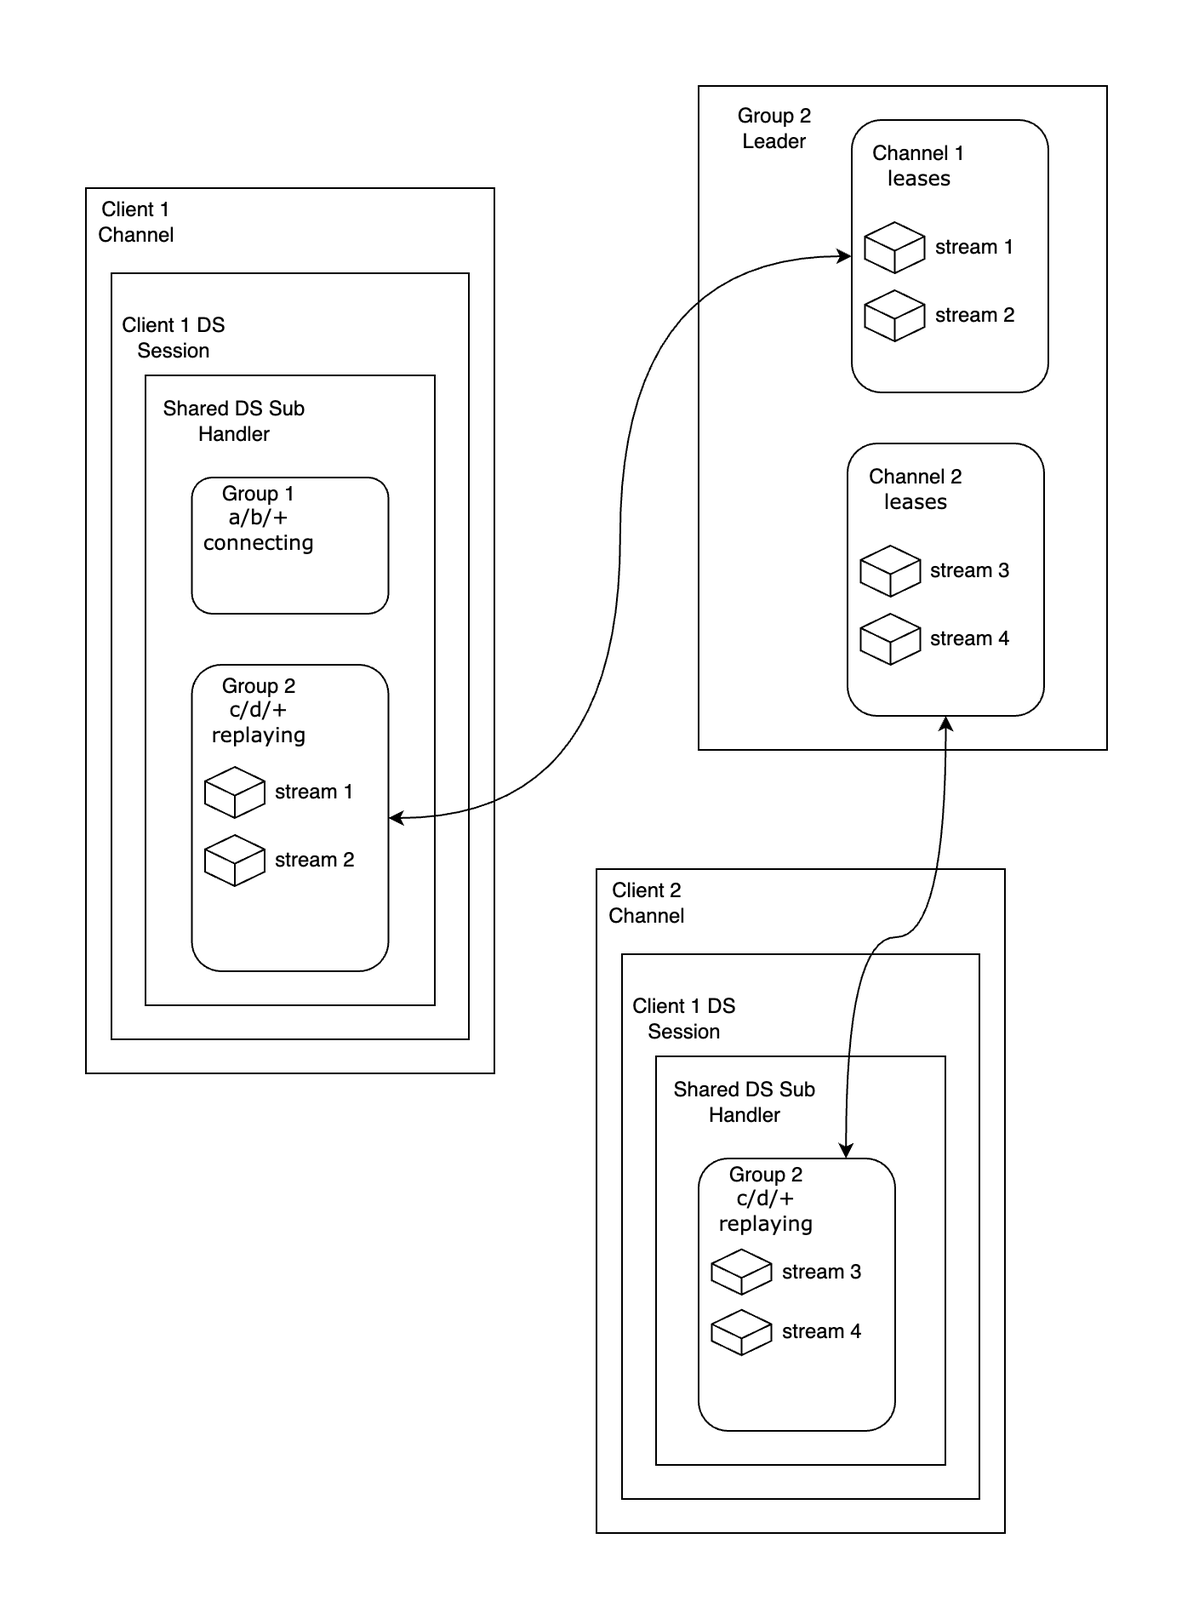
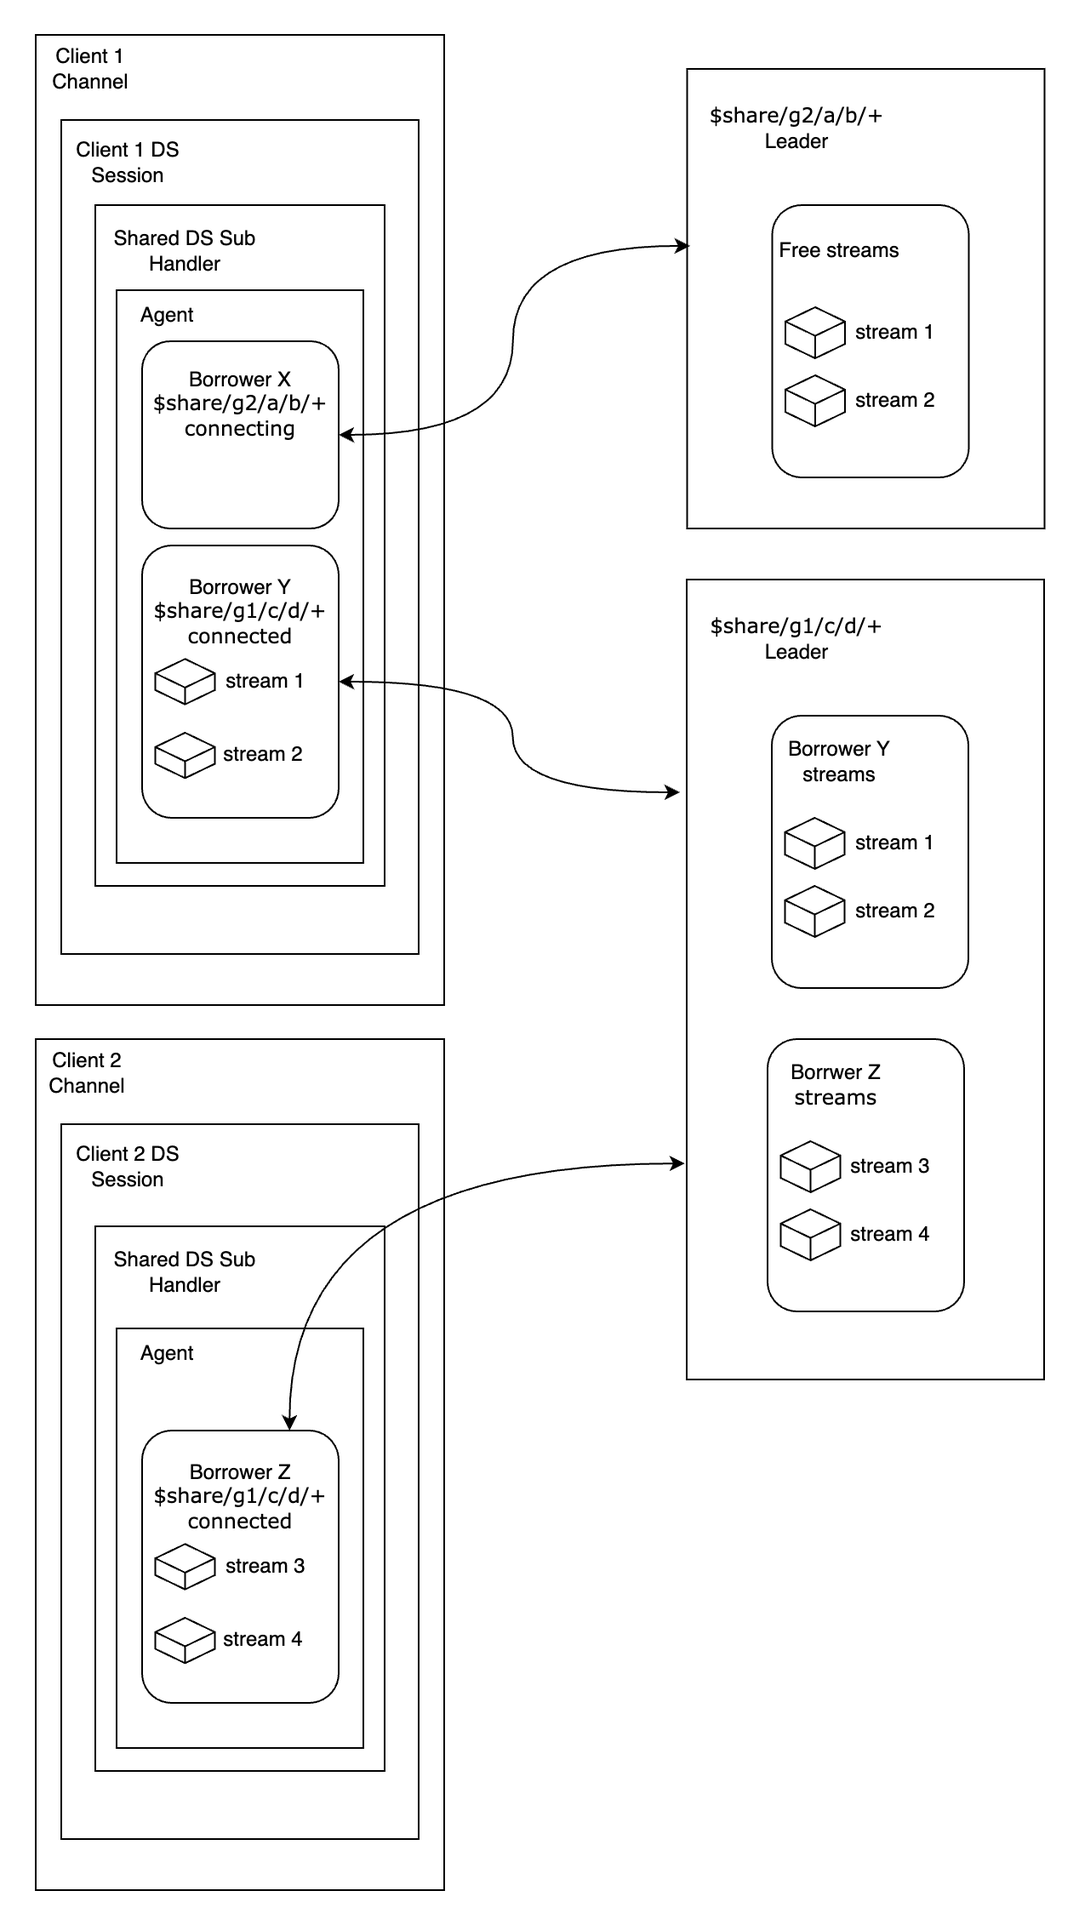
docs(0028): extend shared subscription design description

diff --git a/active/0028-durable-shared-subscriptions.md b/active/0028-durable-shared-subscriptions.md
@@ -3,6 +3,15 @@
 ## Changelog
 
 * 2024-05-10: @savonarola Initial draft
+* 2024-06-28: @savonarola
+    * Add the Agent abstraction
+    * Describe the two-side communication sequence between an Agent and the SGL
+    * Describe the stream reassignment algorithm
+* 2025-01-08: @savonarola
+    * Change the naming to contain less abbreviations and more comprehensive names
+    * Extend the introductory section a bit to make the general problem clear
+    * Add a section with the general layer structure
+    * Updated the interaction details according to the new simpler design
 
 ## Abstract
 
@@ -18,119 +27,209 @@ Since we have durable storage-based implementation for the regular subscriptions
 
 ### General Idea
 
-Each group is managed by a unique shared group leader process (SGL) that is cluster-wide. It has a persistent state but does not always run. It spawns when any group consumer connects and exits for some time after the last consumer disappears.
+Shared subscriptions (or queues) are a feature that allows multiple consumers to consume messages from some topic filter cooperatively.
 
-An SGL is spawned by a shared group leader manager (SGLM) process. SGLM runs per node and is responsible for spawning SGLs, locating them in the cluster, and guaranteeing that there is only one SGL per group.
+Several consumers subscribe to a special topic `$shared/GROUP_ID/TOPIC_FILTER` (or `$queue/GROUP_ID/TOPIC_FILTER` in the case of queues) and consume messages from `TOPIC_FILTER`. Each message goes to a single consumer.
 
-The global registration mechanism has not yet been chosen. It may be `ra`-based, `global`-based, or even DS-specific (like registering in FoundationDB).
+With the durable backend (Durable Storage backend, DS), all messages pertain to the ordered _streams_ of messages. Streams may be read sequentially (possibly skipping some messages). Streams may be finalized (i.e., closed) and so fully consumed.
 
-SGL keeps track of topics belonging to the group, their streams, and stream states. It is the only entity that tracks the replay progress of these streams.
+Since the streams are a means of sharding messages, the natural idea is to use the same sharding mechanism for shared subscriptions. That is, assign disjointed subsets of streams to different consumers and let them consume their streams in parallel.
 
-The groups' consumers are persistent sessions. They connect to the SGL, and the SGL leases them streams to consume. Sessions consume these streams together with their proper streams but do not persist the progress. Instead, they report the progress to the SGL.
+We need an entity responsible for distributing such streams across consumers.
+We implement such entity as a cluster-unique process called **Shared Group Leader** or simply **Leader**.
 
-SGL is responsible for reassigning streams to the other group consumers in case a consumer disconnects and for reassigning streams to the new consumers.
+The Leader is spawned when the first consumer connects to the group subscription.
 
-![General Design](./0028-assets/general-design.png)
+The global registration mechanism is based on the DS precondition feature, which allows the creation/deletion of message entries in the DS atomically.
 
-All communication between the consumers(sessions) and the SGL, SGLM, is done asynchronously because leaders may need to be spawned (this requires election) or may be running on a remote node.
+Leaders' data is also stored in the DS. Note that the DS for the Leader registration and other data is completely separate from the DS for the messages.
 
-### Session Side
+The Leader keeps track of topics belonging to the group, their streams, and stream progress. It is the only entity that tracks the replay progress of these streams.
 
-The Shared Subscription-related data structures are kept as the session's private data. Still, they are encapsulated and isolated from the rest of the session data structures with a **Shared Subscription Session Handler** (SSubHandler) facade module (`emqx_persistent_session_ds_shared_sub`). So, the Shared Subscription data is opaque to the rest of the session code.
+The consumers are persistent sessions. They connect to the Leader via the encapsulated **Agent** entity, and the Leader grants them streams to consume. Sessions consume these streams together with their proper streams but do not persist the progress. Instead, they report the progress to the Leader.
 
-The SSubHandler is passive, i.e., it does not contain any running processes. It only reacts to invocations from the session side.
+The Leader is responsible for reassigning streams to the other sessions in case a consumer session disconnects and for reassigning streams to the new consumers.
 
-A session is responsible for:
-* Initializing the SSubHandler data on session bootstrap.
-* Delivering Shared Sub-related messages (from timers, from other entities) to the SSubHandler.
-* Forwarding subscribe/unsubscribe `$shares/group/...` requests to the SSubHandler.
-* Querying stream states (`stream_state()`) from SSubHandler for replay and reporting replay results to the SSubHandler.
+### Layer design
 
-### Shared Subscription Session Handler
+The high-level layers are:
+* Session *Shared Subscription Handler*
+* Shared Subscription *Agent*
+* Shared Subscription *Borrower*
+* Shared Subscription *Leader*
 
-SSubHandler data is a collection of Group Subscription FSMs (GSFSM) identified by the group ID.
+#### Session Shared Subscription Handler
 
-```erlang
-#{
-    group_id() := #{
-        state := state(),
-        ...
-    }
-}
-```
+Session Shared Subscription Handler (or simply Shared Subscription Handler) is the session-side facade for the shared subscriptions.
+It is a counterpart of the module responsible for the regular (private) session subscriptions.
 
-Each GSFSM contains the following states:
-* `connecting` - the initial state, the GSFSM is looking for a Group Subscription Leader (SGL).
-* `replaying` - the GSFSM is connected to the SGL and provides stream states for replay.
-* `updating` - the GSFSM is connected to the SGL and is updating the set of streams.
+Session Shared Subscription
+* Handles the `on_subscribe`/`on_unsubscribe` events from the session, creating/deleting subscriptions in the session's state and forwarding the requests to the Agent.
+* Receives stream granting/revocation messages from the Agent and injects stream states into the session's state and the scheduler.
+* Receives stream consumption progress updates and sends them to the Agent.
 
-### Protocol between Session and SGL
+So, the Shared Subscription Handler knows how the session works but nothing about how the streams are obtained and managed. This knowledge is encapsulated in the **Agent** abstraction.
+
+#### Shared Subscription Agent
+
+The Agent is the entity that provides the interface for the Shared Subscription Handler to obtain stream granting/revocation events and reports stream consumption progress.
+
+For the community edition, the Agent is implemented as a stub that does not perform any actions, so sessions' subscriptions and unsubscriptions have no effect.
+
+For the enterprise edition, the Agent actually communicates with the Leaders, receives streams for consumption, and reports stream consumption progress.
+
+Technically, the Agent itself does not have much communication logic, because it handles _all_ shared subscriptions of a single session. So its responsibility is to maintain a collection of Shared Subscription Borrowers and to forward events belonging to the particular shared subscription to the corresponding Borrower.
+
+#### Shared Subscription Borrower
+
+Borrower is the entity within the Agent responsible for a single shared subscription. It talks to the Leader, receives streams for subscription, and reports stream consumption progress.
+
+It is important, that the Borrowers within the session's Agent are isolated from each other and are _not identified_ by the group ID + topic filter. In case of quick unsubscribe/subscribe sequence, there may be multiple Borrowers within the same Agent talking to the same Leader. One connecting to the Leader and the other ones finalizing the previous subscriptions.
+
+#### Shared Subscription Leader
+
+The Leader is the entity that is responsible for a single shared subscription group. The Leader
+* Tracks and renews streams for the shared subscription's topic filter.
+* Tracks the connected Borrowers.
+* Assigns and revokes streams to the Borrowers.
+* Receives stream consumption progress updates from the Borrowers.
+* Persists the shared subscription's state (e.g. stream consumption progress).
+
+#### Layer interaction
+
+![general-design](./0028-assets/general-design.png)
+
+The Shared Subscription Handler, Agent, and Borrowers are nested session-side entities: The Shared Subscription Handler encapsulates an Agent, which encapsulates a collection of Borrowers. Communication between them is done via simple function calls.
+
+Leader resides in a separate process, so it communicates with Borrowers via completely asynchronous message-based protocol.
+Note that Borrowers are the innermost entities, so these messages to and from the Leader are opaquely propagated through the Agent and Shared Subscription Handler layers.
+
+### Protocol between Borrower and Leader
+
+The most complicated part is the asynchronous protocol between a Borrower and a Leader. The other interactions (Agent and Borrower, Shared Subscription Handler and Agent) are mostly forwarding events and callbacks.
+
+On the Borrower side, we have
+* A state machine for the Borrower's state as a whole.
+* A collection of state machines for each stream granted to the Borrower.
+
+#### Borrower's statuses
+
+The Borrower's statuses are the following:
+* `connecting` - the Borrower is created (a client subscribed to a shared subscription or restored an existing subscription).
+It is looking for a Leader periodically sending `find_leader` messages.
+* `connected` - the Borrower is connected to the Leader, receiving streams (or revoke commands) and reporting progress.
+* `unsubscribing` - the session unsubscribed from the shared subscription. The Borrower is waiting for consistent progress from the session, reports it, and terminates.
+
+There are no cyclic status transitions, the statuses change as
+`[new]` -> `connecting` -> `connected` -> `unsubscribing` -> `[destroyed]`
+
+If a Borrower detects an inconsistent state (e.g., an unexpected message from the Leader), it terminates itself and asks the enclosing Agent to recreate it from scratch. The new Borrower will obtain a new identifier, and the Leader will see it as a completely new Borrower.
+
+The Borrower has the following timers:
+* In `connecting` state, there is a periodic find leader timer. It is used to reissue the `find_leader` message if the Leader is not found.
+* In `connected` state, there is a periodic ping timer and a ping response timeout timer. On ping timer, a ping message is sent to the Leader. If there is no response within the ping timeout, the Borrower invalidates (stops and asks the enclosing Agent to recreate it from scratch).
+* In `unsubscribing` state, there is a unsubscribe timeout timer. If within the timeout the Borrower does not receive the final consistent progress from the session, it reports incomplete progress and terminates.
+
+### Individual stream states
+
+Each stream has its own state. The stream state is the following:
+* `granted` - the stream is granted to the Borrower.
+* `revoking` - the stream is being revoked from the Borrower by the Leader.
+
+Stream state changes are also without cyclic transitions; they are `[absent]` -> `granted` -> `revoking` -> `[absent]`.
+
+Stream becomes `granted` when the Leader assigns it to the Borrower (a `grant` event is received).
+
+Stream becomes `revoking` when the Leader revokes it from the Borrower (a `revoke` event is received).
+On revoke, the stream is marked as `unsubscribed` in the enclosing session but still belongs to the Borrower.
+The Borrower waits for the final consistent progress from the session.
+
+The stream is removed when a `revoked` event is received from the Leader.
+This means that the Leader confirms that the final progress is received.
+
+### Messages/callbacks between the Borrower and the Leader
 
 #### `connecting` state
-In the `connecting` state, the GSFSM data is as follows:
-* Topic(s)
-* Subscription properties
 
-GSFSM starts in the `connecting` state. When it enters this state, it sends a `find_leader` message to the local SGLM to find the SGL for the group.
+From Borrower:
+* `leader_wanted` — a request to find the Leader for the shared subscription.
+Since the Borrower is not connected to the Leader yet, it sends this message to a node-local leader registry. The registry will find the Leader and the Leader will respond with a `leader_connect_response` message.
 
-The SGLM's responsibility is to find/spawn a cluster-unique SGL for the group and provide the subscriber's pid and other data to it. The SGL then provides the subscriber with the stream states, and the replay starts.
+From Leader to Borrower:
+* `leader_connect_response` — the Leader responds to the `leader_wanted` message. The response contains the Leader's id.
 
-##### Messages sent in the `connecting` state
+From the enclosing Agent/Session:
+* `on_disconnect`, `on_unsubscribe` — since we have no streams, we send `disconnect` message to the Leader and terminate the Borrower.
 
-* `{find_leader, GroupId, Topic, ...}` - to the SGLM to find the SGL for the group.
+#### `connected` and `unsubscribing` states
 
-##### Messages handled in the `connecting` state
+From Borrower:
+* `ping` — a periodic ping message to keep the connection alive.
+* `disconnect` — a message to disconnect from the Leader. The message contains the latest progress of all granted streams.
+* `update_progress` — a message to update the progress of the stream consumption.
+* `revoke_finished` — a message to notify the Leader that the stream revocation is finished.
 
-* `{lease_streams, Version, ...}` — from the SGL with the stream states for replay. Version
-* `find_leader_timeout` — self-scheduled timeout message, on which `find_leader` is resent to the SGLM.
+From Leader to Borrower:
+* `ping_response` — a response to the `ping` message.
+* `grant` — a message that the Leader grants a stream to the Borrower.
+  * in `unsubscribing` state it is ignored.
+  * in `connected` state, the granted stream is added to the Borrower's stream set and an event returned to the enclosing session to install the stream.
+* `revoke` — a message that the Leader revokes a stream from the Borrower.
+  * in `unsubscribing` state it is ignored.
+  * in `connected` state, the stream is marked as `revoking` and an event returned to the enclosing session to unsubscribe from the stream. We still keep the stream in the Borrower's stream set until the final progress is received.
+* `revoked` — a message that the Leader confirms that the final progress is received.
+  * in `unsubscribing` state it is ignored.
+  * in `connected` state, the stream is removed from the Borrower's stream set. We respond to the Leader with `revoke_finished` message.
 
-#### `replaying` state
+From the enclosing Agent/Session:
+* `on_disconnect` — we send the current progress to the Leader and terminate the Borrower.
+* `on_unsubscribe` — we move the Borrower to the `unsubscribing` state.
+* `on_stream_progress` — we send the progress to the Leader via the `update_progress` message.
 
-In the `replaying` state, the GSFSM data is as follows:
-* Topic(s)
-* Subscription properties
-* Stream states, Version
+#### All state messages
 
-In the `replaying` state, the GSFSM accepts replay requests from the session side and updates stream states after each replay interaction.
+`invalidate` — a message that the Leader wants to invalidate the Borrower. The Borrower terminates itself and asks the enclosing Agent to recreate it from scratch.
 
-##### Messages handled in the `replaying` state
+### Leader's logic
 
-* `{renew_stream_lease, Version, ...}` — from the SGL with the stream IDs. If the Version does not match the GSFSM's stream set Version, it's abnormal, and the GSFSM returns to the `connecting` state.
-* `{update_streams, VersionOld, VersionNew, StreamsNew, ...}` — from the SGL with the updated stream set.
-The message contains the old Version of the stream set. The GSFSM returns to the `connecting` state if a mismatch is detected. Otherwise, it records the new stream states, marks the old stream states as taken over, and continues to the `update_stream_states` state.
-* `renew_stream_lease_timeout` — self-scheduled timeout message, canceled on each `renew_stream_lease` message. The GSFSM returns to the `connecting` state if the timeout occurs.
-* `invalidate` — from the SGL if it considers the state of the GSFSM invalid. The GSFSM goes back to the `connecting` state.
+Leader maintains:
+* The renewed set of streams for the topic filter of the shared subscription.
+* The progress of each stream.
+* The set of connected Borrowers.
+* The assignment of streams to the Borrowers.
 
-##### Messages sent in the `replaying` state
+The stream assignment to a borrower has the following statuses:
+* `granting` — the stream is being granted to the Borrower.
+* `granted` — the stream is assigned to the Borrower.
+* `revoking` — the stream is being revoked from the Borrower.
+* `revoked` — the stream is revoked from the Borrower.
 
-* `{update_stream_states, Version, SreamStates}` - to the SGL to update the stream states.
+Periodically, or after some events, the Leader runs the stream reassignment process.
 
-#### `updating` state
+The stream reassignment process is the following:
+* We renew the set of streams for the topic filter.
+* We check the total number of streams and the registered Borrowers.
+* We calculate the desired number of streams per Borrower.
+* For borrowers having more streams than desired, we revoke some of its streams.
+* For borrowers having fewer streams than desired, we grant some free streams (not assigned to any Borrower).
 
-In the `updating` state, the GSFSM data is as follows:
+The granting process is the following:
+* We create the stream assignment `stream <-> borrower_id` in the `granting` status.
+* We send the `grant` message to the Borrower together with the stream and its progress.
+* We resend the `grant` message on timeout.
+* After the `grant` message is received by the Borrower it starts to send stream progress.
+* On receiving the progress, we consider the stream granted and update the stream assignment status to `granted`.
 
-* Topic(s)
-* Subscription properties
-* Stream states, VersionNew
-* Taken over stream states, VersionOld
-
-In the `updating` state, the GSFSM accepts replay requests from the session side and updates stream states after each replay interaction. It also accepts replay _results_ for Taken Over streams.
-
-##### Messages handled in the `updating` state
-
-* `{update_streams, VersionOld, VersionNew, StreamsNew, ...}` — from the SGL with the updated stream set. This update may continue to arrive unless the SGL is sure the GSFSM is updating.
-* `{renew_stream_lease, VersionOld, VersionNew, ...}` — from the SGL indicating confirmation of ongoing stream update.
-* `{renew_stream_lease, VersionNew, ...}` — from the SGL indicating that it accepted the final updates of fully acked streams. These messages coincide with the one handled in the `replaying` state. On receive, the GSFSM goes back to the `replaying` state.
-* `renew_stream_lease_timeout` — self-scheduled timeout message, canceled on each `renew_stream_lease` message. The GSFSM returns to the `connecting` state if the timeout occurs.
-* `invalidate` — from the SGL if it considers the state of the GSFSM invalid. The GSFSM goes back to the `connecting` state.
-
-##### Messages sent in the `updating` state
-
-* `{update_stream_states, VersionNew, StreamsNew, VersionOld, StreamsOld, ...}` - to the SGL to update the stream states. Both for active streams and for taken-over streams. If taken-over streams are fully acked, the according flag is sent for them.
-
-### State transitions
-
-![State transitions](./0028-assets/session-side-state.png)
+The revoking process is the following:
+* We move the stream assignment `stream <-> borrower_id` in the `revoking` status
+* We send the `revoke` message to the Borrower.
+* We resend the `revoke` message on timeout.
+* After the `revoke` message is received by the Borrower, it starts to finalize the stream consumption.
+* When we receive the progress from the Borrower with the stream final progress, we move the stream assignment status to `revoked`.
+* We send the `revoked` message to the Borrower.
+* We resend the `revoked` message on timeout.
+* After the `revoked` message is received by the Borrower, it deletes all the stream-related data and responds with `revoke_finished` message.
+* On receiving the `revoke_finished` message, the Leader deletes the stream assignment.
 
 ### Configuration Changes
 
@@ -144,4 +243,8 @@ One of the main difficulties is the coexistence of durable shared subscriptions 
 
 ### Declined Alternatives
 
+Previous PoC implementation appeared to be too complex both for implementation and for understanding.
+* There was not one-to-one Borrower <-> Subscription correspondence. That made resubscribing complicated and led to much complex logic in the Shared Subscription Handler.
+* Consequently, the Borrowers handled invalidation and resubscription themselves. Their state machine was larger and had cycles.
+* The Borrowers and the Leader did not have separate communication levels (connection maintenance vs. stream assignment and progress reporting). Instead, the Leader and the Borrower exchanged versioned sets of streams, which also appeared to be too complex.
 
